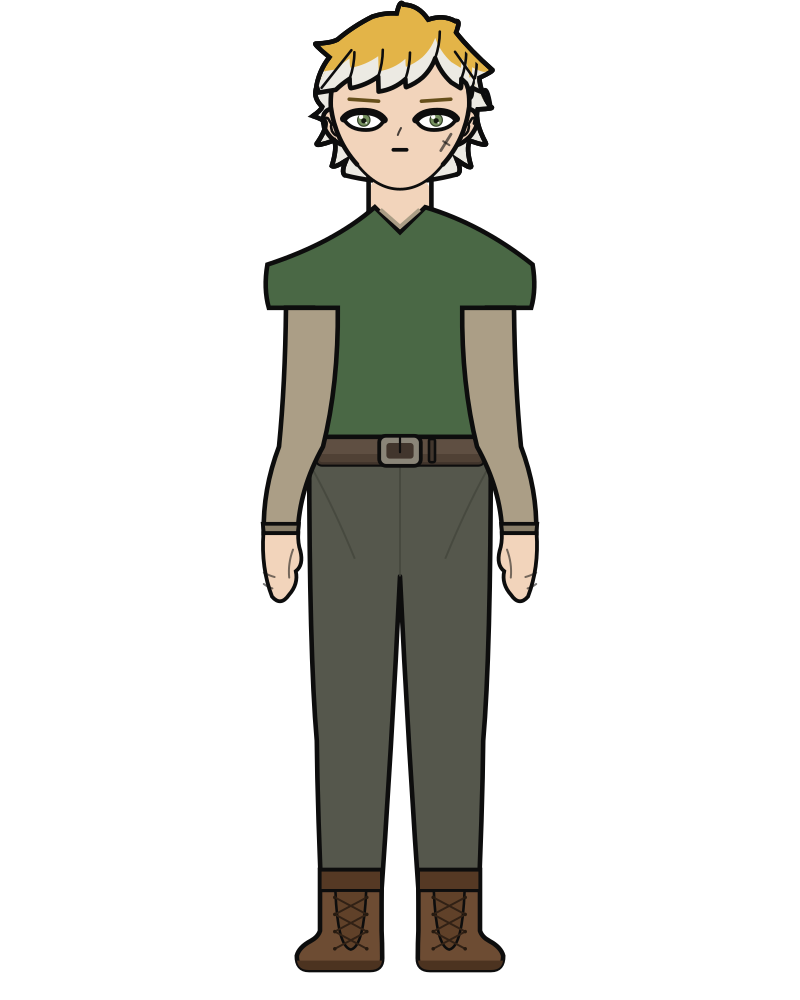
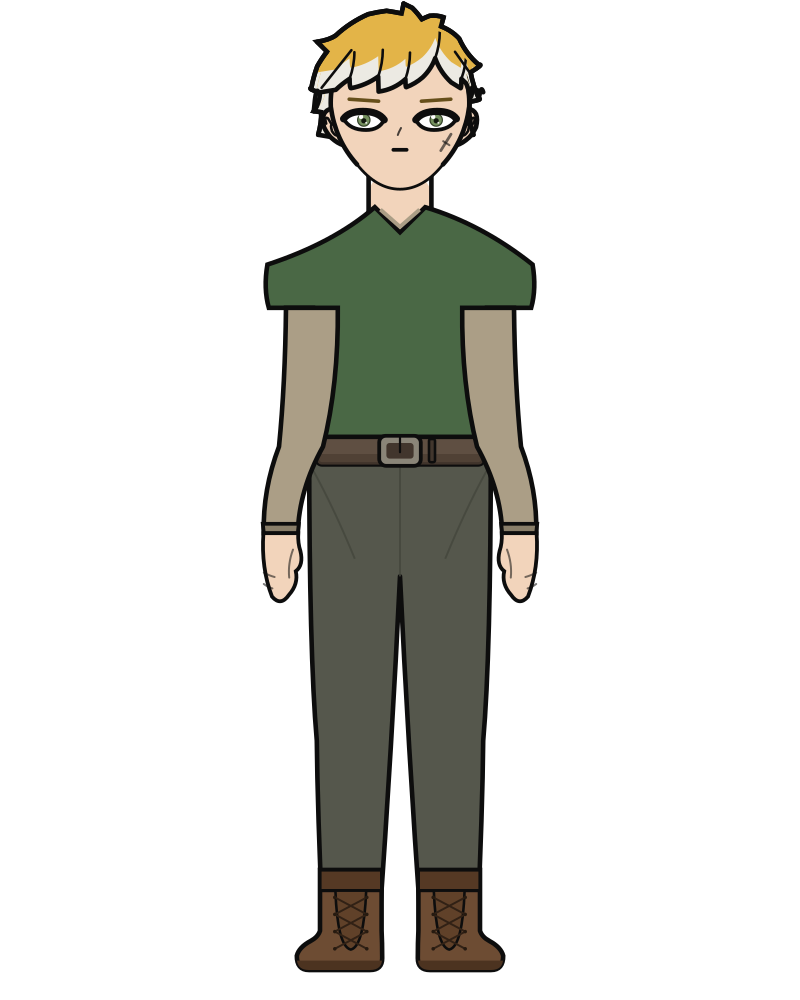
review feedback

Changed region(s): [[0.4375, 0.0, 0.625, 0.186], [0.375, 0.031, 0.4688, 0.186]]

diff --git a/src/anime_character_creator/character.py b/src/anime_character_creator/character.py
@@ -400,6 +400,12 @@ def _mirrored(edge: tuple[Point, list[Segment]]) -> list[tuple[Point, list[Segme
     return [edge, _mirror(*edge)]
 
 
+def _scale_point(pt: Point, k: float) -> Point:
+    """A point scaled by `k` from the head centre. Shared by whichever traced
+    contour is being blown up from its as-measured size, long or crop."""
+    return (pt[0] * k, pt[1] * k)
+
+
 def _reverse(start: Point, segments: list[Segment]) -> tuple[Point, list[Segment]]:
     """Walk a quadratic chain backwards. Reversing a quadratic is just
     swapping its endpoints and keeping the control point, so this is exact
@@ -1066,15 +1072,29 @@ _LONG_REAL_LINE: list[Segment] = [
 # It is not a build number because `fall` already is one, folding build and
 # hair_length into a single figure, and this trace is only valid at the
 # specific silhouette it was read off, not at "any adult build" or "any
-# length" — a longer or shorter cut would need its own trace, which is the
+# length". A longer or shorter cut would need its own trace, which is the
 # `docs/character-roster-plan.md`-style work the owner deferred to a later
-# pass. `_LONG_REAL_TOL` is wide enough to also cover Kyoko, who carries this
-# exact hairstyle and hair_length unchanged (`_before`'s whole point), and
-# narrow enough to exclude Krista (`fall` 2.751, a different length on the
-# same cut) and Chiyo and Reika (1.667 and 4.962, genuinely different cuts'
-# worth of length) from a trace that was never measured at their proportions.
+# pass; the same goes for anything taller than `--build realistic` itself,
+# since `fall` keeps growing past heads 6 (the body keeps lengthening even
+# though the head-relative anchors are already clamped) and carries no trace
+# of its own to fall back on out there.
+#
+# `_LONG_REAL_TOL` used to be 0.05, wide enough that a `--heads` some way off
+# 6.0 could still land inside it: Krista's own `fall` (2.751 at exactly
+# `realistic`, a different length on the same cut) drifts up to 2.86-2.89 by
+# `--heads` 6.2-6.5 and was wrongly picked up there. 0.001 is tight enough to
+# still catch Satoko and Kyoko at `--build realistic` (their computed `fall`
+# is 2.8765, 0.0005 off the constant above, which is only the gap from
+# writing it down to three places, not something the tolerance needs to
+# cover on its own) while shrinking Krista's and Keiko's accidental windows
+# from about 0.2 of a head to a few thousandths, well past anything a
+# `--heads` typed by hand would land on. It does not remove the possibility
+# outright, a bare `fall` match can never rule out every coincidence, only
+# make one implausible: this was a deliberate, narrower call than threading
+# `heads` through the whole hairstyle dispatch, made because the taller-build
+# gap above is already out of scope for this trace.
 _LONG_REAL_FALL = 2.877
-_LONG_REAL_TOL = 0.05
+_LONG_REAL_TOL = 0.001
 # The trace above is faithful to the photo and reads thin next to the chibi:
 # this house's whole style is built on a chibi's generous, larger-than-life
 # hair, and a silhouette sized exactly to an adult reference loses that
@@ -1086,10 +1106,32 @@ _LONG_REAL_TOL = 0.05
 # radii above centre, and the traced crown's own apex already sits at 1.078,
 # so anything scaled past about 1.26 paints into the canvas edge.
 _LONG_REAL_SCALE = 1.2
-
-
-def _long_real_scale(pt: Point) -> Point:
-    return (pt[0] * _LONG_REAL_SCALE, pt[1] * _LONG_REAL_SCALE)
+# How far above the real trace's own lower edge the gold gives way to the
+# pale tips, in the same head radii the trace's points are in. `_LONG_TONE_LIFT`
+# is this cut's chibi value and does not carry over as it stands: it is
+# multiplied there by `fall / _LONG_BASE_TIP`, a scale factor that only
+# means something against the chibi-scaled edge, which stretches with
+# `fall`. The real trace's edge does not stretch, it is a fixed, already-
+# adult shape, so that multiplier (about 1.7 at this trace's own `fall`) was
+# being applied to the wrong basis.
+#
+# 0 rather than some other positive number: swept 0, 0.3, 0.62, 1.06, 1.6 and
+# 2.4 against a render. None of them move the split most of the mass reads
+# at, which `_fade_y`'s own clamp sets regardless of `lift` for every point
+# already above it, that is most of the mass at this trace's depth. What
+# every *nonzero* value in that sweep did instead was poke a small gold
+# wedge through the pale at the foot of one fall or the other, the same
+# defect the docstring above already names, and which side it poked through
+# did not move smoothly with `lift`: left at 0.3, right at 0.62, left again
+# at 1.06, right at 1.6, neither at 2.4. That is the six-samples-per-segment
+# walk crossing the fade threshold at a different sample for a different
+# `lift`, a threshold effect rather than a continuous one, so do not expect
+# some nearby value to be smoothly better or worse than 0. 0 is simply the
+# one value tried that hit neither side, and it costs nothing obvious to
+# read off: this trace's own two tips already sit within 0.03 head radii of
+# each other (`_LONG_REAL_EDGE`'s two endpoints), so a level cut and a
+# tip-following one do not visibly differ here anyway.
+_LONG_REAL_TONE_LIFT = 0.0
 
 
 def _long_scaled(fall: float) -> tuple[Point, list[Segment]]:
@@ -1112,8 +1154,9 @@ def _long_scaled(fall: float) -> tuple[Point, list[Segment]]:
     measured to go.
     """
     if abs(fall - _LONG_REAL_FALL) < _LONG_REAL_TOL:
-        return _long_real_scale(_LONG_REAL_EDGE_START), [
-            (_long_real_scale(c), _long_real_scale(e)) for c, e in _LONG_REAL_EDGE
+        return _scale_point(_LONG_REAL_EDGE_START, _LONG_REAL_SCALE), [
+            (_scale_point(c, _LONG_REAL_SCALE), _scale_point(e, _LONG_REAL_SCALE))
+            for c, e in _LONG_REAL_EDGE
         ]
     span = _LONG_BASE_TIP - _HAIR_CHEEK_Y
     k = (fall - _HAIR_CHEEK_Y) / span if span else 1.0
@@ -1132,8 +1175,9 @@ def _long_line(fall: float) -> tuple[Point, list[Segment]]:
     same reason: the traced hairline is already the realistic-build answer,
     not a chibi one waiting to be stretched further."""
     if abs(fall - _LONG_REAL_FALL) < _LONG_REAL_TOL:
-        return _long_real_scale(_LONG_REAL_LINE_START), [
-            (_long_real_scale(c), _long_real_scale(e)) for c, e in _LONG_REAL_LINE
+        return _scale_point(_LONG_REAL_LINE_START, _LONG_REAL_SCALE), [
+            (_scale_point(c, _LONG_REAL_SCALE), _scale_point(e, _LONG_REAL_SCALE))
+            for c, e in _LONG_REAL_LINE
         ]
     span = _LONG_BASE_TIP - _HAIR_CHEEK_Y
     k = (fall - _HAIR_CHEEK_Y) / span if span else 1.0
@@ -1223,9 +1267,11 @@ def _long_traced_tip_edge(fall: float) -> list[tuple[Point, list[Segment]]]:
     not a contiguous run, and left a gold wedge poking into the pale at the foot
     of each fall.
     """
-    v = fall / _LONG_BASE_TIP
     start, edge = _long_scaled(fall)
-    lift = _LONG_TONE_LIFT * v
+    if abs(fall - _LONG_REAL_FALL) < _LONG_REAL_TOL:
+        lift = _LONG_REAL_TONE_LIFT
+    else:
+        lift = _LONG_TONE_LIFT * (fall / _LONG_BASE_TIP)
     top = min(e[1] for _, e in edge)
     bottom = max(e[1] for _, e in edge)
     fade = _fade_y(top, bottom)
@@ -1268,7 +1314,10 @@ def _long_traced_strands(fall: float) -> list[tuple[Point, list[Segment]]]:
     """
     if abs(fall - _LONG_REAL_FALL) < _LONG_REAL_TOL:
         return [
-            (_long_real_scale(start), [(_long_real_scale(c), _long_real_scale(e))])
+            (
+                _scale_point(start, _LONG_REAL_SCALE),
+                [(_scale_point(c, _LONG_REAL_SCALE), _scale_point(e, _LONG_REAL_SCALE))],
+            )
             for start, c, e in (
                 ((-0.16, -0.92), (-0.42, -0.68), (-0.62, -0.32)),
                 ((0.20, -0.94), (0.46, -0.70), (0.66, -0.34)),
@@ -1408,14 +1457,20 @@ _CROP_REAL_TOL = 0.01
 # generous hair, and the shape that fixed the crown-vs-fringe mismatch is
 # worth keeping at a bigger size rather than re-measuring bigger. Capped
 # under where the crown's own apex (1.307 head radii here) would cross
-# `build_skeleton`'s realistic-build hair ceiling of 1.36: 1.36 / 1.307 is
-# about 1.04, tighter headroom than Satoko's trace had, so this stays
-# closer to 1.0 even though the same "more like the chibi" call applies.
-_CROP_REAL_SCALE = 1.03
+# `build_skeleton`'s realistic-build hair ceiling of 1.36. That ceiling
+# bounds all hair ink, the outline stroke's outer half included (see
+# `hair_margin`'s own comment), and `_stroke_w` at the realistic build is
+# 0.058 head radii, so the apex has only 1.36 - 0.029 = 1.331 to clear
+# rather than the full 1.36: 1.331 / 1.307 is about 1.018, tighter headroom
+# than Satoko's trace had. An earlier version of this comment compared
+# against the full 1.36 and read 1.04, and 1.03 sat here on that basis, past
+# the true limit; it painted a few antialiased pixels into row 0 of the
+# exported canvas. 1.005 clears it (checked by rendering and reading the
+# PNG's own top row back, not by the math alone: antialiasing bleeds the
+# stroke a pixel or so past its analytic centre, so the margin computed
+# above still isn't quite enough on its own).
+_CROP_REAL_SCALE = 1.005
 
-
-def _crop_real_scale(pt: Point) -> Point:
-    return (pt[0] * _CROP_REAL_SCALE, pt[1] * _CROP_REAL_SCALE)
 # The fringe, traced off `ref/satoshi-chibi-fringe.png`: the canon's fringe cut
 # out of the chibi reference by the owner, background removed.
 #
@@ -1501,8 +1556,9 @@ def _crop_outline(fall: float) -> tuple[Point, list[Segment]]:
     needed its proportions to change with the build would not come out that flat.
     """
     if abs(fall - _CROP_REAL_FALL) < _CROP_REAL_TOL:
-        return _crop_real_scale(_CROP_REAL_START), [
-            (_crop_real_scale(c), _crop_real_scale(e)) for c, e in _CROP_REAL_EDGE
+        return _scale_point(_CROP_REAL_START, _CROP_REAL_SCALE), [
+            (_scale_point(c, _CROP_REAL_SCALE), _scale_point(e, _CROP_REAL_SCALE))
+            for c, e in _CROP_REAL_EDGE
         ]
     v = fall / _CROP_BASE_TIP
     start = (_CROP_START[0] * v, _CROP_START[1] * v)
